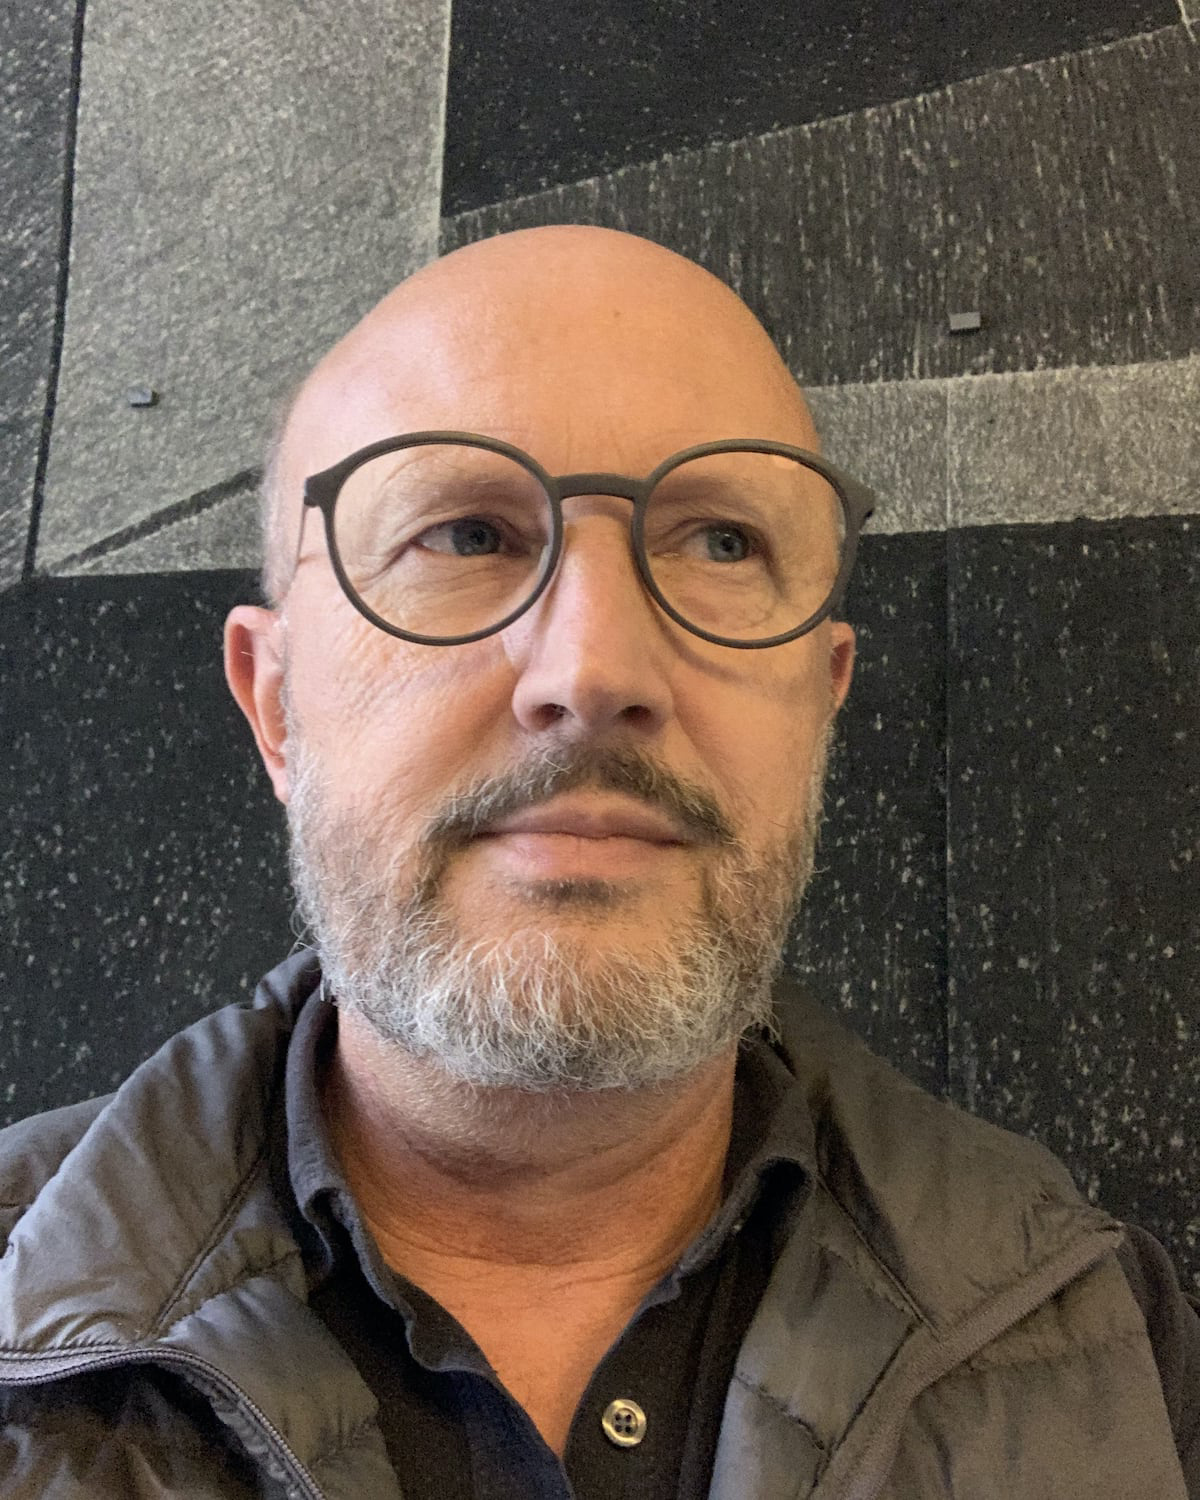
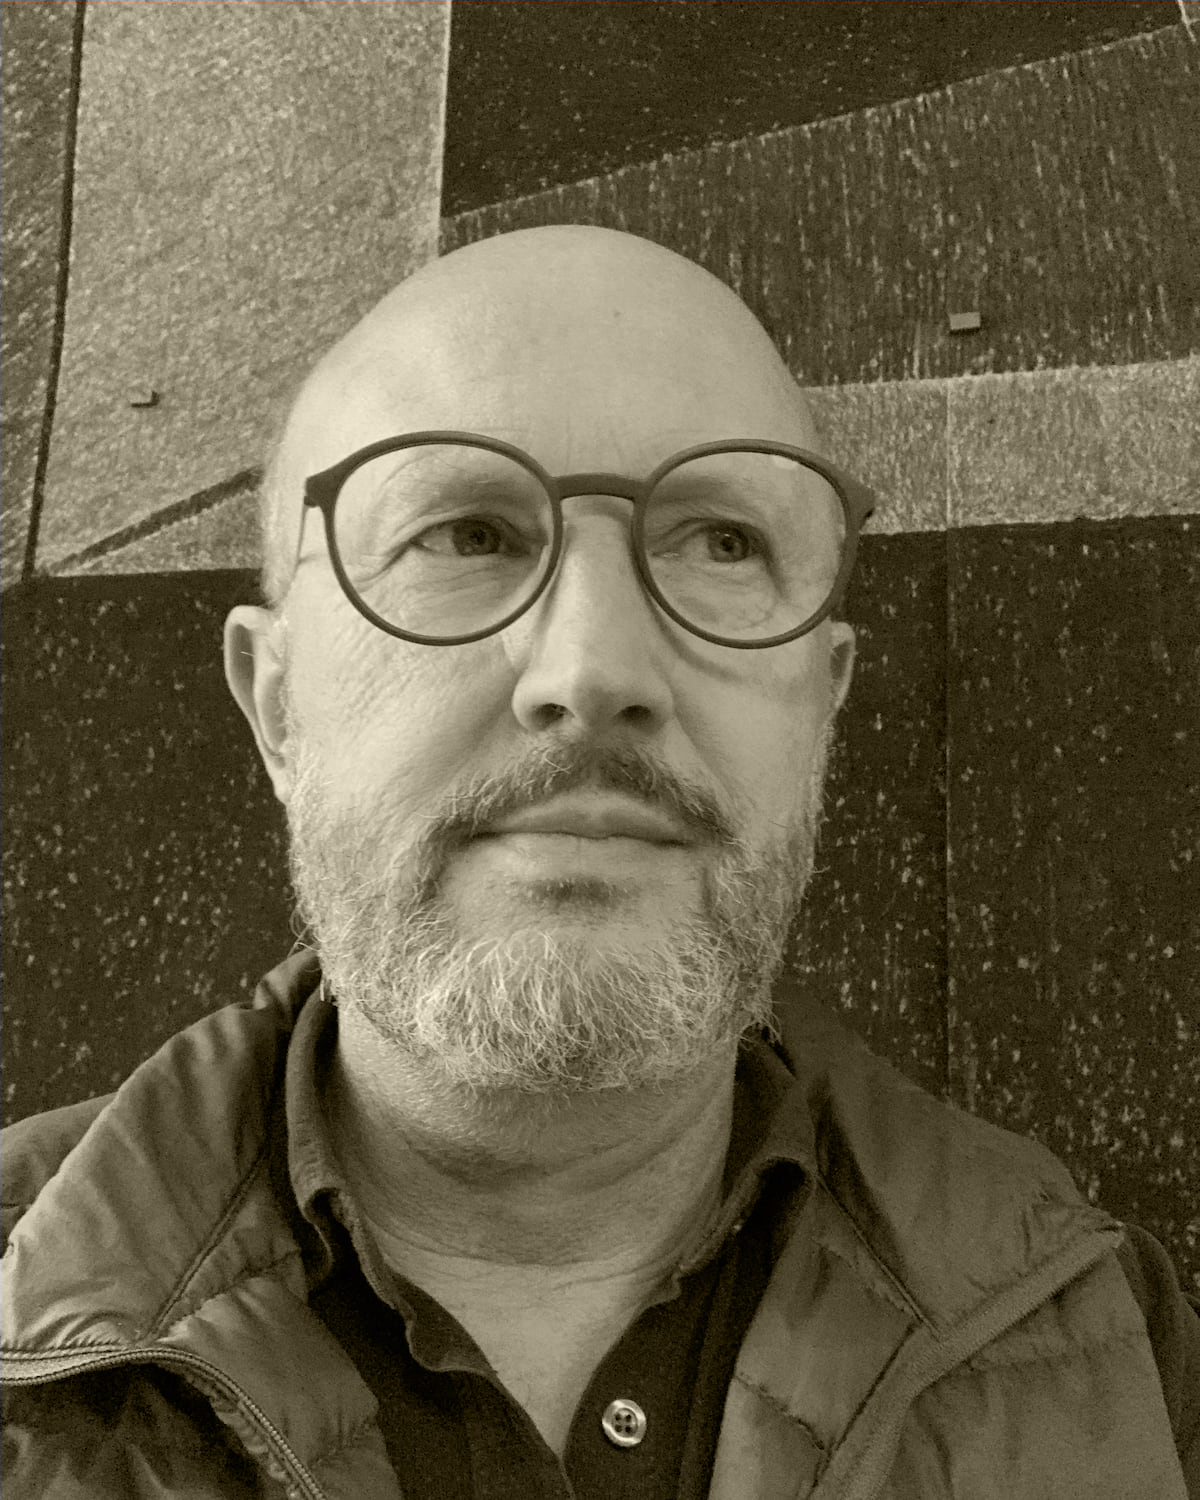
replace images (set blending via photoshop)

diff --git a/style.css b/style.css
@@ -342,11 +342,11 @@ footer a:hover {
     display: grid;
     grid-template-columns: 1fr 1fr;
     gap: var(--general-margin);
+    mix-blend-mode: luminosity;
 }
 
 .info-images img {
     width: 100%;
-    mix-blend-mode: luminosity;
     opacity: 0;
     transition: opacity 1s ease;
 }
@@ -1055,10 +1055,6 @@ footer a:hover {
     .info-images {
         margin-top: 1rem;
         order: 1;
-    }
-
-    .info-images img {
-        opacity: 1;
     }
 
     .close-btn {
